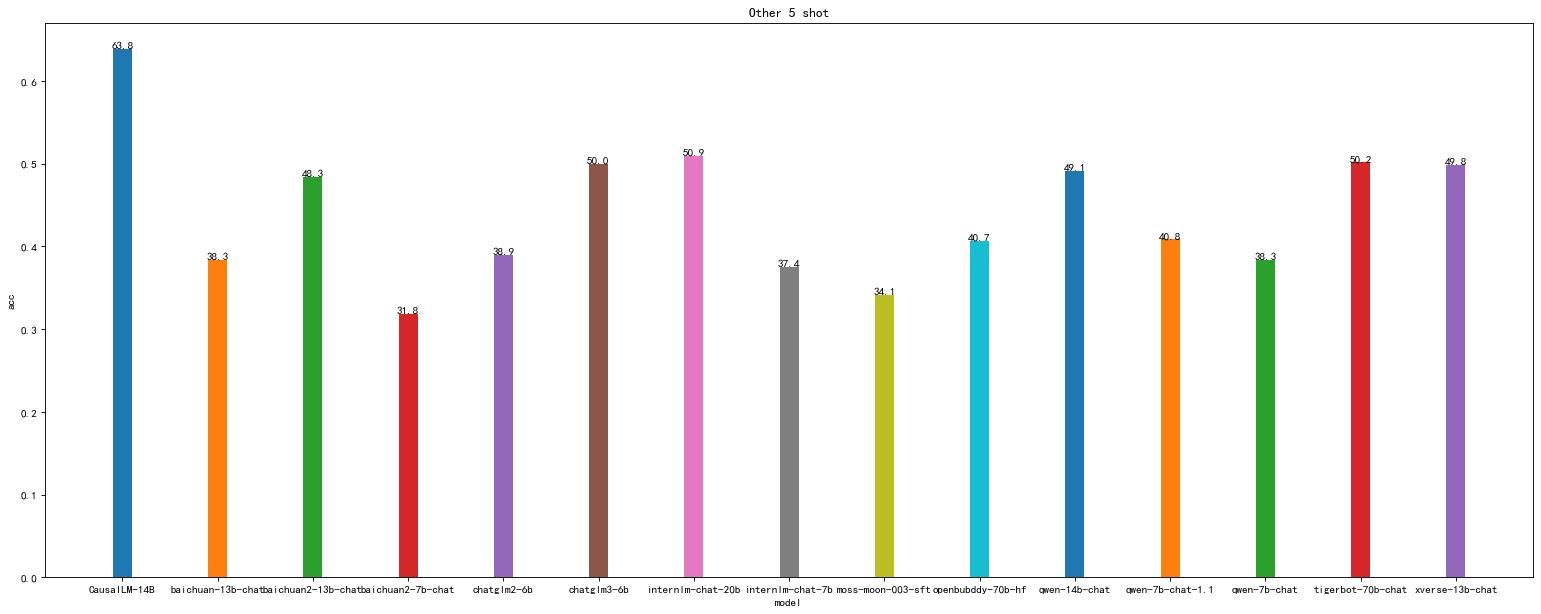
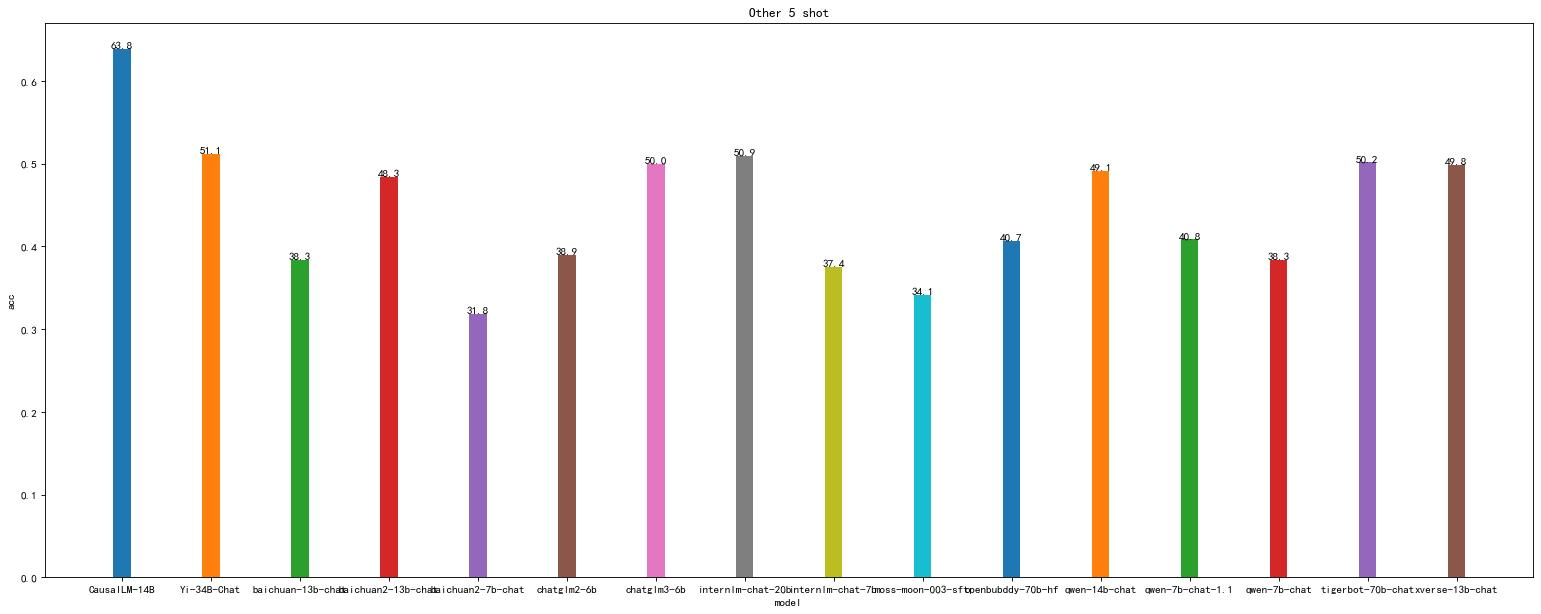
update Yi-34B-Chat

Changed region(s): [[0.1246, 0.2476, 0.9033, 0.9902], [0.9345, 0.2476, 0.9656, 0.9593], [0.0623, 0.0619, 0.0934, 0.0928]]

diff --git a/auto_eval/model_result/draw_ceval.py b/auto_eval/model_result/draw_ceval.py
@@ -38,7 +38,7 @@ colors = [
     'r','g','b','black','yellow','grey', 'orange','silver','purple','brown','beige','salmon','pink',"#653700","#cb416b","#cea2fd","#01153e"
 ]
 styles = [
-    'dashed','solid','dotted','dashdot','dashdot','solid','solid','dashdot','solid','solid','solid','dashed','solid','solid','solid'
+    'dashed','solid','dotted','dashdot','dashdot','solid','solid','dashdot','solid','solid','solid','dashed','solid','solid','solid','solid'
 ]
 idx = -1
 for k,v in data_map.items():

diff --git a/auto_eval/config.py b/auto_eval/config.py
@@ -21,7 +21,8 @@ import os
 # MODEL = "langchain/chat_model/ChatYuan-large-v2"
 # MODEL = "langchain/chat_model/chatglm2-6b-int4"
 # MODEL = "langchain/chat_model/chatglm3-6b"
-MODEL = "langchain/chat_model/CausalLM-14B"
+# MODEL = "langchain/chat_model/CausalLM-14B"
+MODEL = "langchain/chat_model/Yi-34B-Chat"
 
 
 

diff --git a/README.md b/README.md
@@ -89,12 +89,13 @@ python run_struct.py
 
 ## ceval 评测结果
 
-|   |  Humanities | Other  | STEM  | Social Science  | avg  |
-|---|---|---|---|---|---|
+|   |  Humanities | Other    | STEM  | Social Science | avg  |
+|---|---|----------|---|---|---|
 | CausalLM-14B        | 0.663914 | 0.637955 | 0.600674 | 0.794810 | 0.674338 |
 | qwen-14b-chat       | 0.620447 | 0.491222 | 0.424681 | 0.766020 | 0.575592 |
 | internlm-chat-20b   | 0.546446 | 0.509072 | 0.453659 | 0.642228 | 0.537851 |
 | chatglm3-6b         | 0.549423 | 0.499834 | 0.454510 | 0.646843 | 0.537653 |
+| Yi-34B-Chat         | 0.558252 | 0.510972 | 0.413072 | 0.630915 | 0.528303 |
 | tigerbot-70b-chat   | 0.490036 | 0.501515 | 0.469567 | 0.616296 | 0.519353 |
 | xverse-13b-chat     | 0.571704 | 0.497663 | 0.412816 | 0.549555 | 0.507934 |
 | qwen-7b-chat-1.1    | 0.574261 | 0.408386 | 0.345937 | 0.703139 | 0.507931 |
